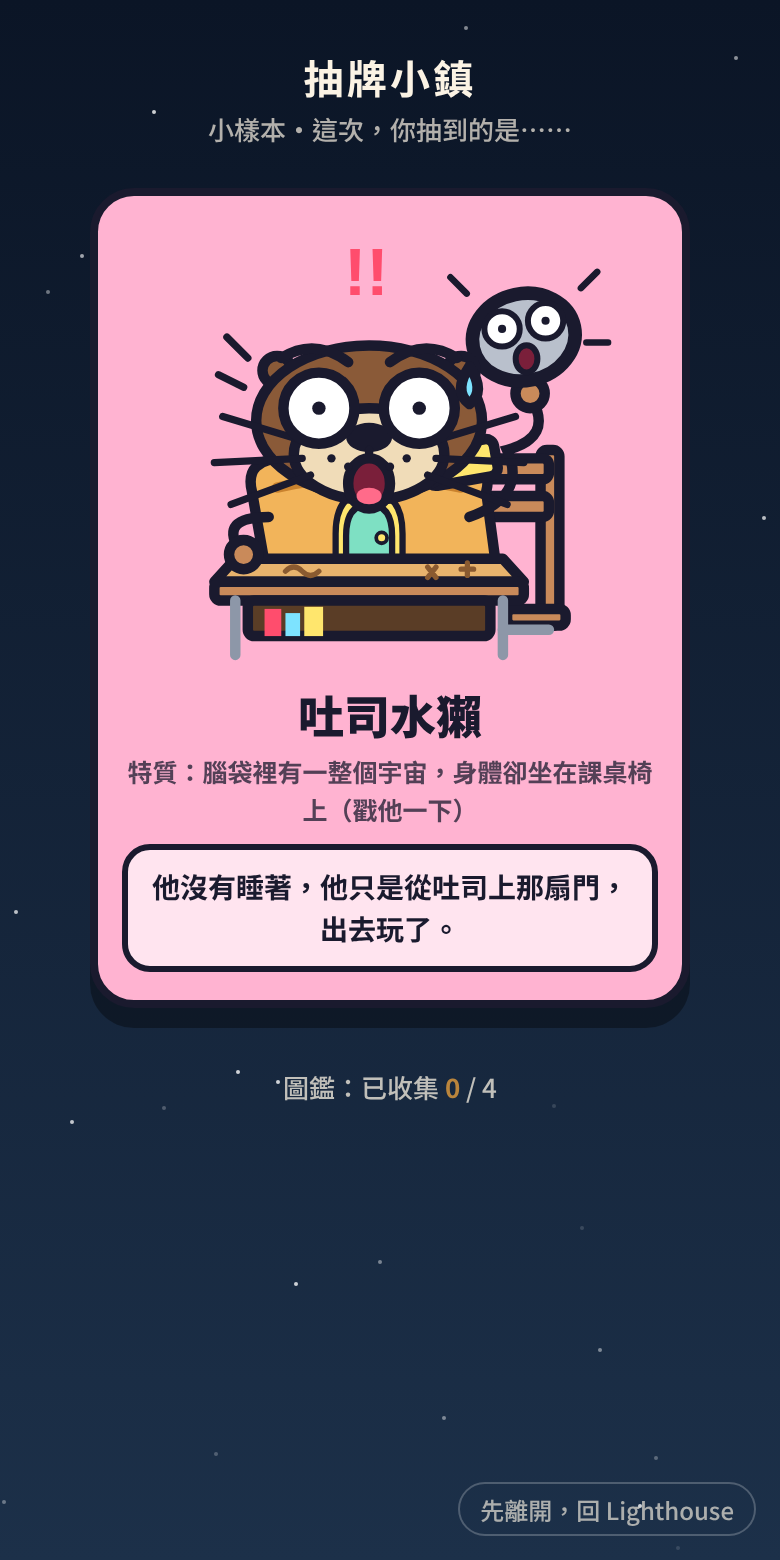
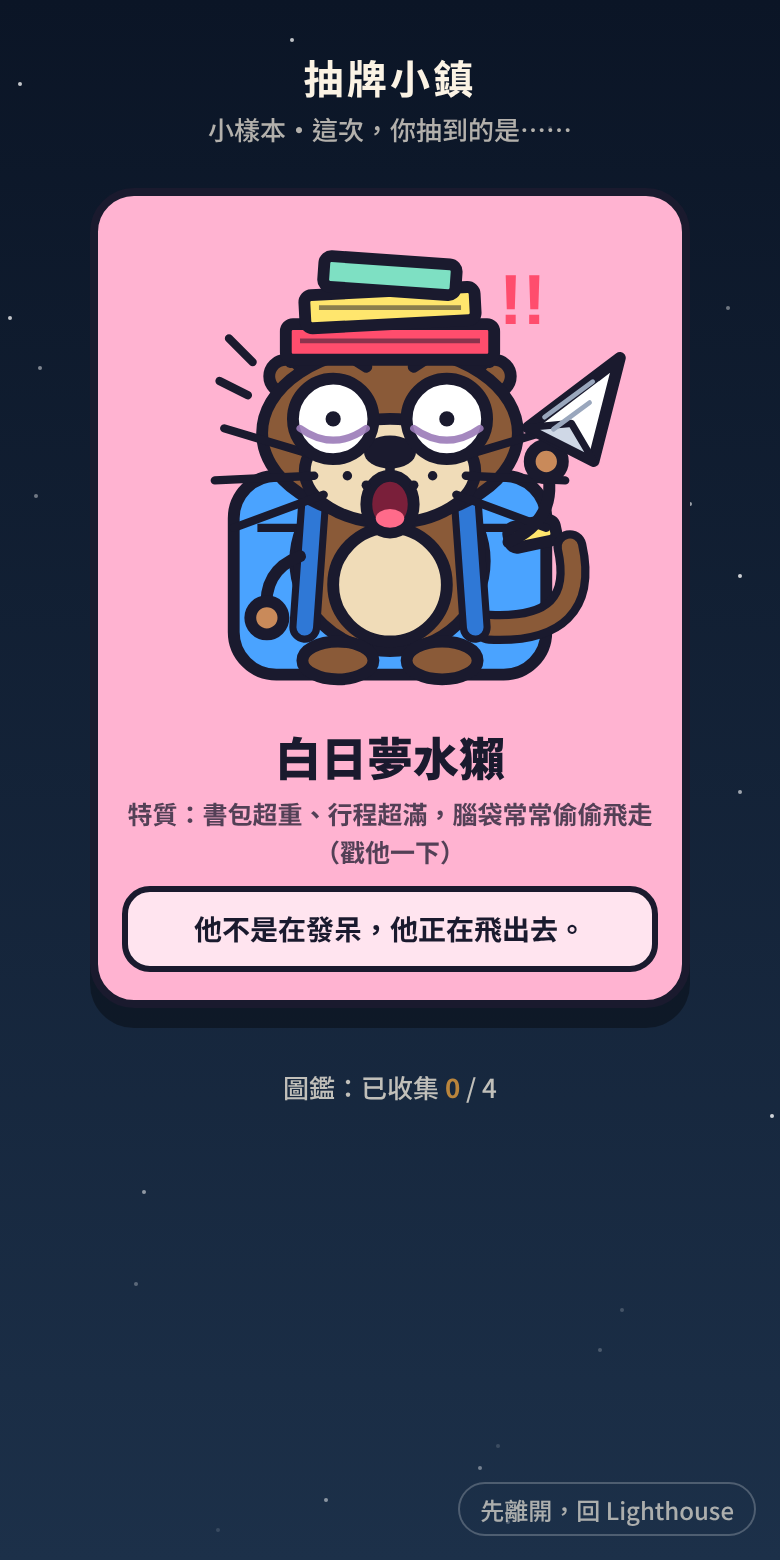
Lighthouse: 抽牌小樣本，水獺改為「白日夢水獺」：頂書、背書包、拿功課紙飛機
Claude-Session: https://claude.ai/code/session_01QMXbFy7GatcecM2zJaJAS8

Changed region(s): [[0.1538, 0.1538, 0.8615, 0.6154]]

diff --git a/lighthouse/cards-sample.html b/lighthouse/cards-sample.html
@@ -112,28 +112,17 @@ const eyeBig = (x,y,r=11,px=0) => `<g class="blink"><circle cx="${x}" cy="${y}" 
 const eyeSpiral = (x,y,r=12) => { let d = ""; for(let i = 0; i <= 44; i++){ const t = i * .3, rr = .8 + i * (r - 3.6) / 44; d += `${i ? "L" : "M"}${(x + rr * Math.cos(t)).toFixed(1)} ${(y + rr * Math.sin(t)).toFixed(1)}`; }
   return `<g class="blink"><circle cx="${x}" cy="${y}" r="${r}" fill="#fff" stroke="${INK}" stroke-width="3.2"/><path d="${d}" fill="none" stroke="${INK}" stroke-width="2" stroke-linecap="round" stroke-linejoin="round"/></g>`; };
 const ART = {
-  /* 吐司水獺：奶油融化中，三隻眼睛高低不一，手像麵條 */
-  otter: `<svg viewBox="0 -10 220 220"><g class="wob">
-    <rect x="182" y="100" width="9" height="84" rx="3" fill="#c98a5a" ${o}/>
-    <rect x="140" y="104" width="46" height="10" rx="3" fill="#c98a5a" ${o}/><rect x="140" y="122" width="46" height="10" rx="3" fill="#c98a5a" ${o}/>
-    <rect x="166" y="176" width="28" height="8" rx="3" fill="#c98a5a" ${o}/>
-    <path d="M44 120 Q40 104 60 104 L140 104 Q160 104 156 120 L160 150 Q164 160 150 160 Q146 182 136 160 Q124 158 120 170 Q116 188 106 164 Q92 160 86 172 Q80 184 74 162 Q56 164 50 154 Z" fill="#f2b45a" ${o}/>
-    <path d="M56 118 Q100 108 144 118" fill="none" stroke="#c9822e" stroke-width="5" stroke-linecap="round"/>
-    <path d="M84 152 L84 140 Q84 120 100 120 Q116 120 116 140 L116 152Z" fill="#ffe66d" stroke="${INK}" stroke-width="3"/>
-    <path d="M89 152 L89 141 Q89 126 100 126 Q111 126 111 141 L111 152Z" fill="#7ee0c3" stroke="${INK}" stroke-width="3"/>
-    <circle cx="106" cy="142" r="2.6" fill="#ffe66d" stroke="${INK}" stroke-width="1.8"/>
-    <path d="M36 152 L164 152 L174 163 L26 163Z" fill="#e8b36d" ${o}/>
-    <rect x="26" y="163" width="148" height="9" rx="3" fill="#c98a5a" ${o}/>
-    <path d="M60 158 Q64 154 68 158 Q72 162 76 158 M128 156 L132 161 M128 161 L132 156 M144 157 L150 157 M147 154 L147 160" fill="none" stroke="#8a5a30" stroke-width="2.5" stroke-linecap="round"/>
-    <rect x="42" y="172" width="116" height="17" rx="3" fill="#5a3d26" ${o}/>
-    <rect x="50" y="176" width="8" height="13" fill="#ff4d6d"/><rect x="60" y="178" width="7" height="11" fill="#7de3ff"/><rect x="69" y="175" width="9" height="14" fill="#ffe66d"/>
-    <path d="M36 172 L36 198 M164 172 L164 198" stroke="#8d97a8" stroke-width="5" stroke-linecap="round"/>
-    <path d="M164 186 L186 186" stroke="#8d97a8" stroke-width="5" stroke-linecap="round"/>
-    <g transform="rotate(-10 150 112)"><rect x="128" y="96" width="34" height="18" rx="4" fill="#ffe66d" ${o}/></g>
-    <path d="M52 132 Q28 132 38 148" fill="none" stroke="${INK}" stroke-width="5" stroke-linecap="round"/><circle cx="40" cy="150" r="7" fill="#c98a5a" ${o}/>
-    <path d="M148 132 Q176 122 166 100 Q188 94 178 76" fill="none" stroke="${INK}" stroke-width="5" stroke-linecap="round"/><circle cx="177" cy="73" r="7" fill="#c98a5a" ${o}/><g class="rock"><g transform="translate(174 46) scale(1.3) translate(-177 -52)"><ellipse cx="177" cy="52" rx="19" ry="16" fill="#b9c0cc" ${o} transform="rotate(-12 177 52)"/>
-    <g class="sleepE"><path d="M166 50 Q170 54 174 50 M180 48 Q184 52 188 48" fill="none" stroke="${INK}" stroke-width="3" stroke-linecap="round"/><path d="M171 58 Q177 63 183 56" fill="none" stroke="${INK}" stroke-width="3" stroke-linecap="round"/></g>
-    <g class="awakeE"><circle cx="169" cy="49" r="6.5" fill="#fff" stroke="${INK}" stroke-width="2.2" stroke-linejoin="round"/><circle cx="185" cy="46" r="6.5" fill="#fff" stroke="${INK}" stroke-width="2.2" stroke-linejoin="round"/><circle cx="169" cy="49" r="1.5" fill="${INK}"/><circle cx="185" cy="46" r="1.5" fill="${INK}"/><ellipse cx="178" cy="60" rx="4" ry="5" fill="#7a1f3a" stroke="${INK}" stroke-width="2.2" stroke-linejoin="round"/><path d="M156 36 L150 30 M198 34 L204 28 M200 54 L208 54" stroke="${INK}" stroke-width="2.4" stroke-linecap="round"/></g></g></g>
+  /* 白日夢水獺：頭上頂著書、背著超重書包，偷偷把功課折成紙飛機，幻想飛出去 */
+  otter: `<svg viewBox="-6 -4 212 212"><g class="wob">
+    <rect x="34" y="104" width="132" height="84" rx="18" fill="#4aa3ff" ${o}/>
+    <path d="M44 126 L156 126" stroke="${INK}" stroke-width="3.5"/><rect x="82" y="134" width="36" height="22" rx="5" fill="#2f78d6" stroke="${INK}" stroke-width="3"/>
+    <rect x="150" y="124" width="20" height="9" rx="3" fill="#ffe66d" ${o} transform="rotate(-12 160 128)"/>
+    <path d="M142 168 Q184 170 176 134" fill="none" stroke="${INK}" stroke-width="14" stroke-linecap="round"/><path d="M142 168 Q184 170 176 134" fill="none" stroke="#8a5a38" stroke-width="7" stroke-linecap="round"/>
+    <ellipse cx="100" cy="140" rx="40" ry="38" fill="#8a5a38" ${o}/>
+    <ellipse cx="100" cy="150" rx="24" ry="24" fill="#f0dcb8" ${o}/>
+    <path d="M68 112 L64 168 M132 112 L136 168" stroke="${INK}" stroke-width="13" stroke-linecap="round"/><path d="M68 112 L64 168 M132 112 L136 168" stroke="#2f78d6" stroke-width="7" stroke-linecap="round"/>
+    <ellipse cx="78" cy="182" rx="15" ry="8" fill="#8a5a38" ${o}/><ellipse cx="122" cy="182" rx="15" ry="8" fill="#8a5a38" ${o}/>
+    <path d="M62 138 Q46 144 48 162" fill="none" stroke="${INK}" stroke-width="5" stroke-linecap="round"/><circle cx="48" cy="164" r="7" fill="#c98a5a" ${o}/>
     <circle cx="56" cy="62" r="7" fill="#8a5a38" ${o}/><circle cx="144" cy="62" r="7" fill="#8a5a38" ${o}/>
     <ellipse cx="100" cy="86" rx="54" ry="36" fill="#8a5a38" ${o}/>
     <ellipse cx="100" cy="102" rx="36" ry="22" fill="#f0dcb8" ${o}/>
@@ -143,11 +132,15 @@ const ART = {
     <circle cx="82" cy="104" r="2" fill="${INK}"/><circle cx="90" cy="108" r="2" fill="${INK}"/><circle cx="118" cy="104" r="2" fill="${INK}"/><circle cx="110" cy="108" r="2" fill="${INK}"/>
     <path d="M70 96 L30 84 M68 104 L26 106 M72 112 L34 126 M130 96 L170 84 M132 104 L174 106 M128 112 L166 126" stroke="${INK}" stroke-width="3.5" stroke-linecap="round"/>
     <g class="sleepE"><circle cx="76" cy="80" r="13" fill="#f0dcb8" ${o}/><circle cx="124" cy="80" r="13" fill="#f0dcb8" ${o}/><path d="M67 80 Q76 88 85 80 M115 80 Q124 88 133 80" fill="none" stroke="${INK}" stroke-width="5" stroke-linecap="round"/></g>
-    <g class="awakeE"><circle cx="76" cy="80" r="17" fill="#fff" ${o}/><circle cx="124" cy="80" r="17" fill="#fff" ${o}/><circle cx="76" cy="80" r="3.2" fill="${INK}"/><circle cx="124" cy="80" r="3.2" fill="${INK}"/><path d="M58 56 Q74 46 90 58 M110 58 Q126 46 142 56" fill="none" stroke="${INK}" stroke-width="5" stroke-linecap="round"/><path d="M148 60 Q156 72 148 78 Q140 72 148 60Z" fill="#7de3ff" ${o}/><path d="M40 70 L28 64 M42 56 L32 46" stroke="${INK}" stroke-width="3.5" stroke-linecap="round"/></g>
-    <text class="oops" x="88" y="26" font-size="32" font-weight="900" fill="#ff4d6d" font-family="sans-serif">!!</text>
+    <g class="awakeE"><circle cx="76" cy="80" r="17" fill="#fff" ${o}/><circle cx="124" cy="80" r="17" fill="#fff" ${o}/><circle cx="76" cy="80" r="3.2" fill="${INK}"/><circle cx="124" cy="80" r="3.2" fill="${INK}"/><path d="M58 56 Q74 46 90 58 M110 58 Q126 46 142 56" fill="none" stroke="${INK}" stroke-width="5" stroke-linecap="round"/><path d="M40 70 L28 64 M42 56 L32 46" stroke="${INK}" stroke-width="3.5" stroke-linecap="round"/></g>
+    <path d="M62 84 Q76 94 90 84 M110 84 Q124 94 138 84" fill="none" stroke="#9b7bb8" stroke-width="3" stroke-linecap="round" opacity=".9"/>
+    <g transform="translate(0 4)"><rect x="56" y="36" width="88" height="15" rx="3" fill="#ff4d6d" ${o}/><rect x="64" y="22" width="72" height="14" rx="3" fill="#ffe66d" ${o} transform="rotate(-3 100 29)"/><rect x="72" y="9" width="56" height="13" rx="3" fill="#7ee0c3" ${o} transform="rotate(4 100 15)"/><path d="M62 43 L138 43 M70 29 L130 29" stroke="${INK}" stroke-width="2" opacity=".5"/></g>
+    <path d="M150 132 Q172 122 166 100" fill="none" stroke="${INK}" stroke-width="5" stroke-linecap="round"/><circle cx="166" cy="98" r="7" fill="#c98a5a" ${o}/>
+    <g class="rock"><g transform="rotate(-18 176 80)"><path d="M158 78 L204 62 L180 100 Z" fill="#fff" ${o}/><path d="M158 78 L180 100 L176 82 Z" fill="#cfd8e6" stroke="${INK}" stroke-width="3" stroke-linejoin="round"/><path d="M166 76 L190 68 M168 82 L186 76" stroke="#9aa7bd" stroke-width="2" stroke-linecap="round"/></g></g>
     </g>
-    <g class="zz" fill="${INK}" font-weight="900" font-family="sans-serif"><text x="116" y="34" font-size="22">Z</text></g>
-    <g class="zz" style="animation-delay:.7s" fill="${INK}" font-weight="900" font-family="sans-serif"><text x="134" y="18" font-size="15">z</text></g></svg>`,
+    <g class="zz" fill="${INK}" font-weight="900" font-family="sans-serif"><text x="150" y="30" font-size="20">Z</text></g>
+    <g class="zz" style="animation-delay:.7s" fill="${INK}" font-weight="900" font-family="sans-serif"><text x="168" y="14" font-size="14">z</text></g>
+    <text class="oops" x="146" y="40" font-size="30" font-weight="900" fill="#ff4d6d" font-family="sans-serif">!!</text></svg>`,
   /* WiFi 刺蝟：刺是長眼睛的天線，一隻超大眼，嘴巴開到耳朵 */
   hedgehog: `<svg viewBox="-13.2 -10.1 220 220"><g class="wob"><g class="ants">
     <path d="M60 100 L34 40" stroke="${INK}" stroke-width="5" stroke-linecap="round"/><circle cx="32" cy="36" r="9" fill="#fff" ${o}/><circle cx="34" cy="38" r="3.5" fill="${INK}"/>
@@ -219,7 +212,7 @@ const ART = {
 };
 
 const CARDS = [
-  {id:"otter",   name:"吐司水獺",   trait:"特質：腦袋裡有一整個宇宙，身體卻坐在課桌椅上（戳他一下）", say:"他沒有睡著，他只是從吐司上那扇門，出去玩了。", bg:"#ffb3d1", rare:0},
+  {id:"otter",   name:"白日夢水獺",   trait:"特質：書包超重、行程超滿，腦袋常常偷偷飛走（戳他一下）", say:"他不是在發呆，他正在飛出去。", bg:"#ffb3d1", rare:0},
   {id:"hedgehog",name:"WiFi 刺蝟", trait:"特質：訊號不好就炸毛（戳他一下試試）", say:"他不是在生氣，只是在轉圈圈載入中。", bg:"#b8f27c", rare:0},
   {id:"penguin", name:"倒帶企鵝",   trait:"特質：肚子的時鐘倒著走，常常回頭看昨天", say:"他不是困住了，只是還想再看一眼昨天。", bg:"#7de3ff", rare:0},
   {id:"snail",   name:"茶杯燈塔蝸牛", trait:"特質：慢慢來，迷路也沒關係，而且會發光", say:"仙境本來就沒有直線，你走歪的那一步，也算數。", bg:"#7a5cff", rare:1}
